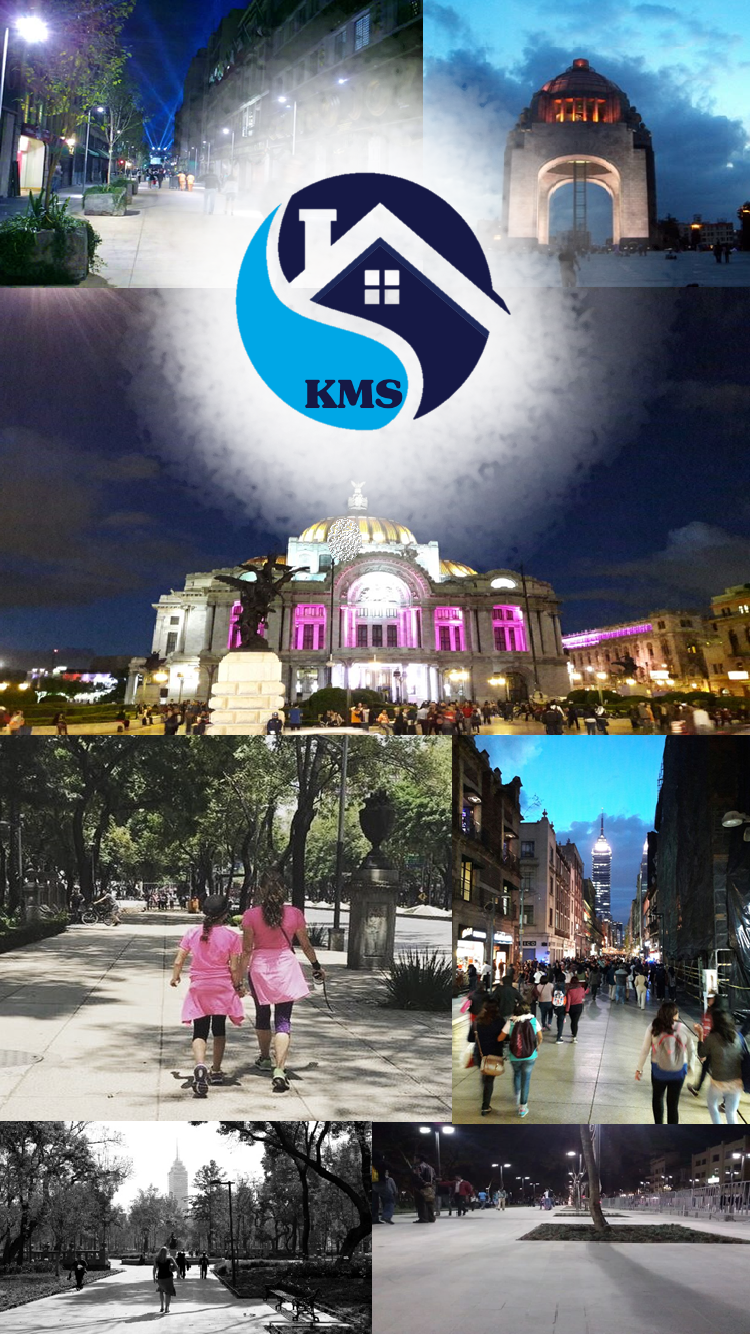
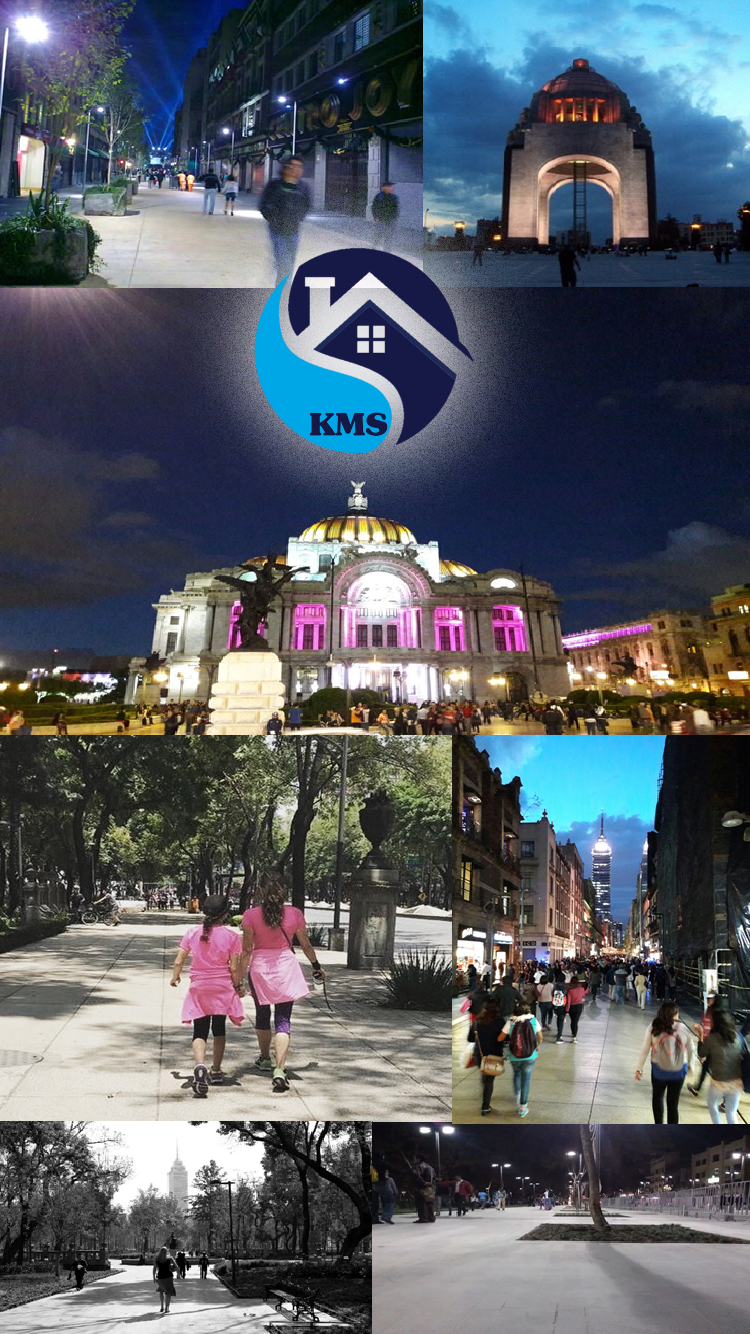
changing Login

Changed region(s): [[0.1533, 0.0, 0.8893, 0.4303]]

diff --git a/keepmesafe/src/login/Login.js b/keepmesafe/src/login/Login.js
@@ -3,7 +3,7 @@ import autobind from "autobind-decorator";
 import React from "react";
 import {observer} from "mobx-react/native";
 import {View, Image, StyleSheet, ScrollView, KeyboardAvoidingView} from "react-native";
-import {H1, Container, Button, Text, Spinner} from "native-base";
+import {H1, H2, Container, Button, Text, Spinner} from "native-base";
 import type { NavigationScreenProp } from "react-navigation/src/TypeDefinition";
 
 import LoginStore from "./LoginStore";
@@ -49,7 +49,8 @@ export default class Login extends React.Component {
                         <View style={style.logo}>
                             <View>
                                 <Mark />
-                                <H1 style={StyleSheet.flatten(style.title)}>Bienvenido</H1>
+                                <H1 style={StyleSheet.flatten(style.title)}>KEEP ME SAFE</H1>
+                                <H2 style={StyleSheet.flatten(style.title)}>Bienvenido</H2>
                             </View>
                         </View>
                         <View style={style.blur}>

diff --git a/keepmesafe/src/login/Mark.js b/keepmesafe/src/login/Mark.js
@@ -1,7 +1,8 @@
 // @flow
 import React from "react";
-import {View, ViewStylePropTypes} from "react-native";
+import {View, ViewStylePropTypes, Image} from "react-native";
 import {Icon} from "native-base";
+import {Images} from "../components";
 
 import commonColor from "../../native-base-theme/variables/commonColor";
 
@@ -22,10 +23,11 @@ export default class Mark extends React.Component {
             <View style={[getStyle(180), { borderColor: "rgba(255, 255, 255, .5)", borderWidth: 1 }]}>
                 <View style={[getStyle(150), { borderColor: "white", borderWidth: 1 }]}>
                     <View style={[getStyle(120), { backgroundColor: commonColor.white }]}>
-                        <Icon name="md-checkmark" style={{fontSize: 100, color: commonColor.brandPrimary }} />
+                        <Image source={Images.mark} style={{height: 120, width: 120 }} />
                     </View>
                 </View>
             </View>
         </View>;
     }
 }
+//<Icon name="md-checkmark" style={{fontSize: 100, color: commonColor.brandPrimary }} />

diff --git a/keepmesafe/src/components/images/Images.js b/keepmesafe/src/components/images/Images.js
@@ -9,6 +9,7 @@ export default class Images {
     static timeline = require("./timeline.png");
     static members = require("./members.png");
     static phone = require("./authphone.jpg");
+    static mark = require("./appkms.png")
 
     static defaultAvatar = require("./avatars/default-avatar.jpg");
     static avatar1 = require("./avatars/avatar-1.jpg");
@@ -29,6 +30,7 @@ export default class Images {
             Asset.fromModule(Images.timeline).downloadAsync(),
             Asset.fromModule(Images.members).downloadAsync(),
             Asset.fromModule(Images.phone).downloadAsync(),
+            Asset.fromModule(Images.mark).downloadAsync(),
 
             Asset.fromModule(Images.defaultAvatar).downloadAsync(),
             Asset.fromModule(Images.avatar1).downloadAsync(),
